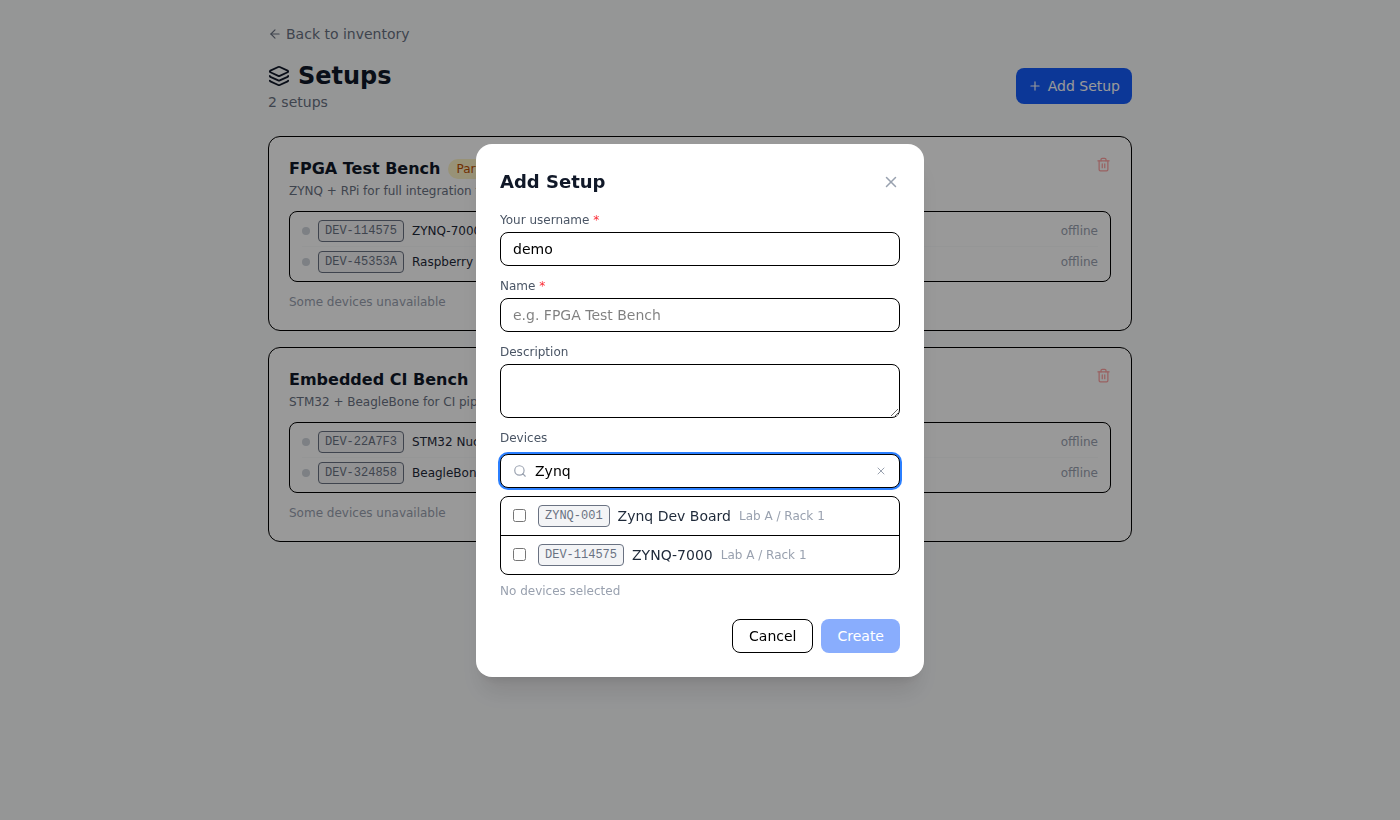
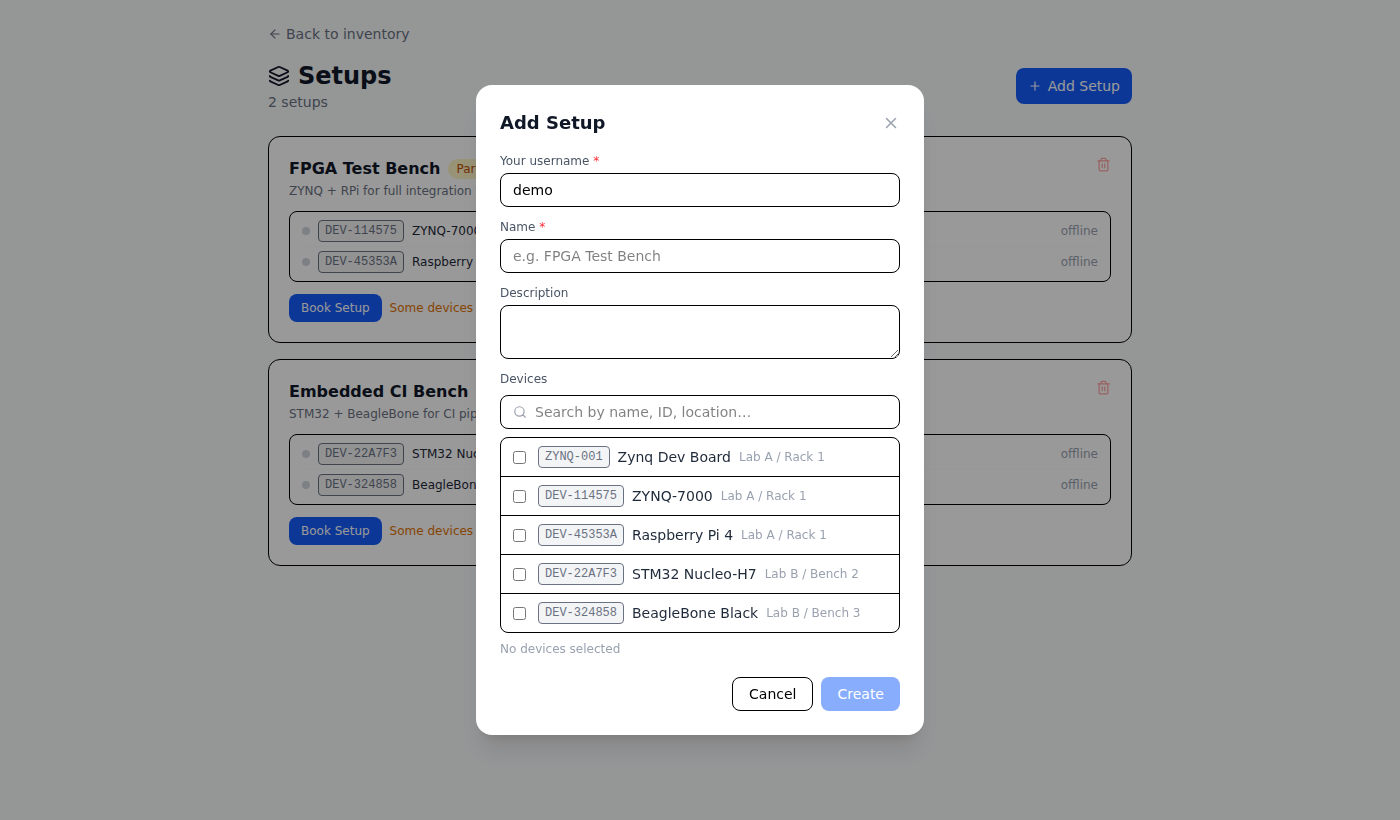
Update screenshots and always show Book Setup button
- Retake all README screenshots to reflect current UI
- Add book-setup-modal screenshot and README entry
- Show Book Setup button even when some devices are offline;
  only hide it when the setup is actively booked

https://claude.ai/code/session_01GABJSn9qP5pQbQ7Q7k4QpR

diff --git a/frontend/src/pages/SetupsPage.tsx b/frontend/src/pages/SetupsPage.tsx
@@ -344,7 +344,7 @@ function SetupCard({ setup }: { setup: SetupInfo }) {
       )}
 
       {/* Actions */}
-      <div className="flex items-center gap-2">
+      <div className="flex items-center gap-2 flex-wrap">
         {myBooking && (
           <button
             onClick={() => releaseMut.mutate()}
@@ -354,16 +354,18 @@ function SetupCard({ setup }: { setup: SetupInfo }) {
             {releaseMut.isPending ? 'Releasing…' : 'Release'}
           </button>
         )}
-        {!setup.active_booking && setup.all_available && (
-          <button
-            onClick={() => setShowBook(true)}
-            className="px-3 py-1.5 text-xs bg-blue-600 text-white rounded-lg hover:bg-blue-700"
-          >
-            Book Setup
-          </button>
-        )}
-        {!setup.active_booking && !setup.all_available && (
-          <span className="text-xs text-gray-400">Some devices unavailable</span>
+        {!setup.active_booking && (
+          <>
+            <button
+              onClick={() => setShowBook(true)}
+              className="px-3 py-1.5 text-xs bg-blue-600 text-white rounded-lg hover:bg-blue-700"
+            >
+              Book Setup
+            </button>
+            {!setup.all_available && (
+              <span className="text-xs text-amber-600">Some devices unavailable</span>
+            )}
+          </>
         )}
         {deleteMut.error && (
           <span className="text-xs text-red-600">{(deleteMut.error as Error).message}</span>

diff --git a/README.md b/README.md
@@ -155,6 +155,7 @@ Custom controllers: subclass `power.base.PowerController`.
 | Settings | Add Setup (device picker) |
 |----------|--------------------------|
 | ![Settings modal for server URL and username](screenshots/settings-modal.png) | ![Add setup modal with searchable device picker](screenshots/add-setup-modal.png) |
+| ![Book setup modal with duration and comment](screenshots/book-setup-modal.png) | |
 
 ---
 
